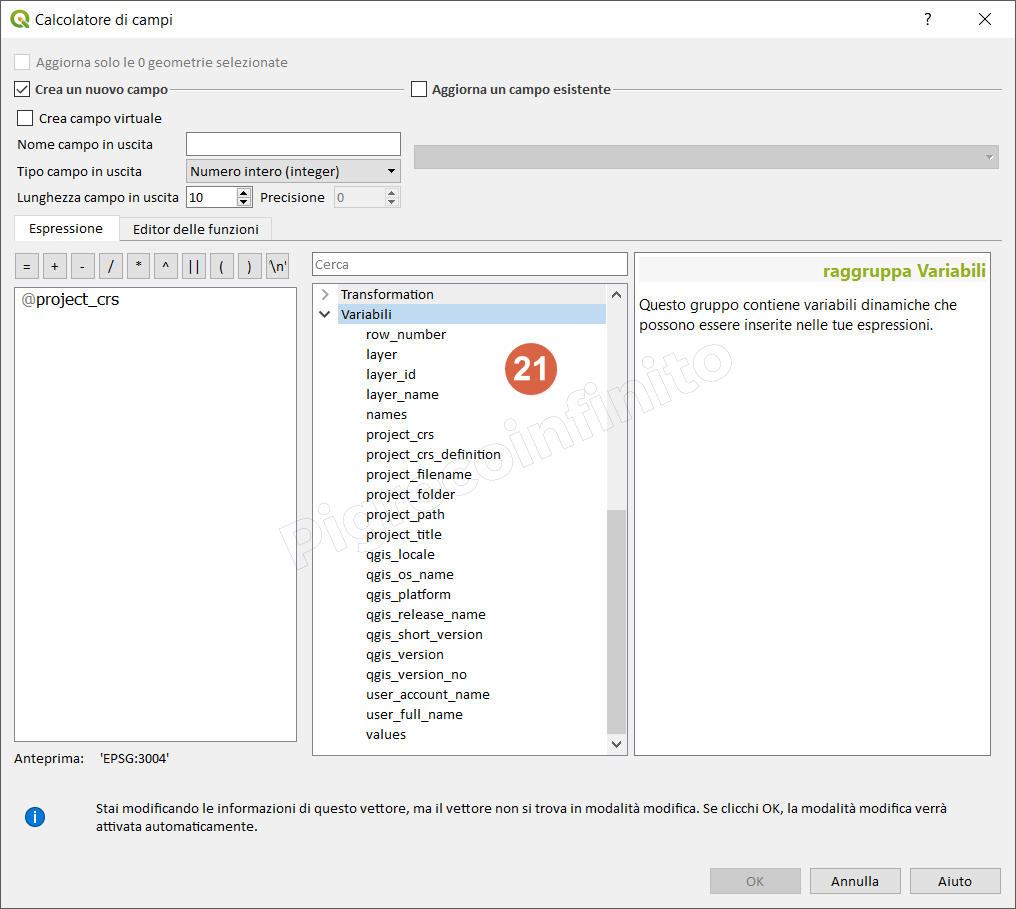
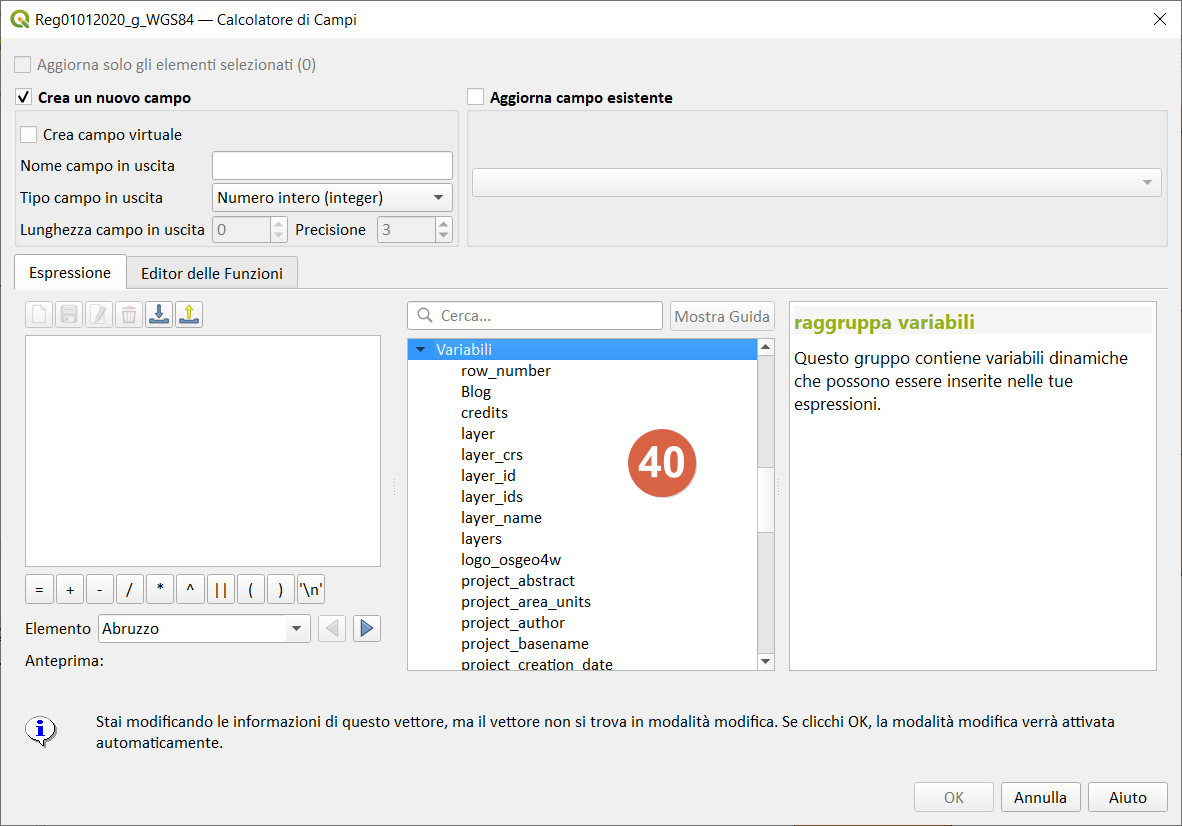
update variabili

diff --git a/docs/gr_funzioni/variabili/variabili.md b/docs/gr_funzioni/variabili/variabili.md
@@ -1,6 +1,6 @@
 # Variabili
 
-[Funzionalità](http://nyalldawson.net/2015/12/exploring-variables-in-qgis-2-12-part-1/) introdotta da [Nyall Dowson](https://twitter.com/nyalldawson) nella **QGIS 2.12 Lyon**
+[Funzionalità](http://nyalldawson.net/2015/12/exploring-variables-in-qgis-2-12-part-1/) introdotta da [Nyall Dawson](https://twitter.com/nyalldawson) nella **QGIS 2.12 Lyon**
 
 Questo gruppo contiene variabili dinamiche relative all'applicazione, al file di progetto e ad altre impostazioni. Significa che alcune funzioni potrebbero non essere disponibili in base al contesto:
 
@@ -149,17 +149,21 @@ Variable|Description
 [with_variable](with_variable.md)|Allows setting a variable for usage within an expression and avoid recalculating the same value repeatedly
 [zoom_level](zoom_level.md)|Zoom level of the tile that is being rendered (derived from the current map scale). Normally in interval [0, 20].
 
-Gruppo sul calcolatore di campi,Seleziona per espressione
+---
+
+- Proprietà Progetto
+- ![](../../img/variabili/gruppo_variabili_progetto1.png)
+- Gruppo sul calcolatore di campi,Seleziona per espressione
 ![](../../img/variabili/gruppo_variabili1.png)
 
-Geometry generator - stile ![epsilos](https://docs.qgis.org/testing/en/_images/mIconExpression.png)
-![](../../img/variabili/gruppo_variabili2.png)
+- Generatore di geometria- stile ![epsilos](https://docs.qgis.org/testing/en/_images/mIconExpression.png)
+- ![](../../img/variabili/gruppo_variabili2.png)
 
-Selezione per espressione ![exp](https://docs.qgis.org/testing/en/_images/mIconExpressionSelect.png)
-![](../../img/variabili/gruppo_variabili3.png)
+- Selezione per espressione ![exp](https://docs.qgis.org/testing/en/_images/mIconExpressionSelect.png)
+- ![](../../img/variabili/gruppo_variabili3.png)
 
-Calcolatore di campi,Seleziona per espressione ![calc](https://docs.qgis.org/testing/en/_images/mActionCalculateField.png)
-![](../../img/variabili/gruppo_variabili4.png)
+- Calcolatore di campi,Seleziona per espressione ![calc](https://docs.qgis.org/testing/en/_images/mActionCalculateField.png)
+- ![](../../img/variabili/gruppo_variabili4.png)
 
-Compositore di stampe ![print](https://docs.qgis.org/testing/en/_images/mActionNewLayout.png)
-![](../../img/variabili/gruppo_variabili5.png)
+- Compositore di stampe ![print](https://docs.qgis.org/testing/en/_images/mActionNewLayout.png)
+- ![](../../img/variabili/gruppo_variabili5.png)
